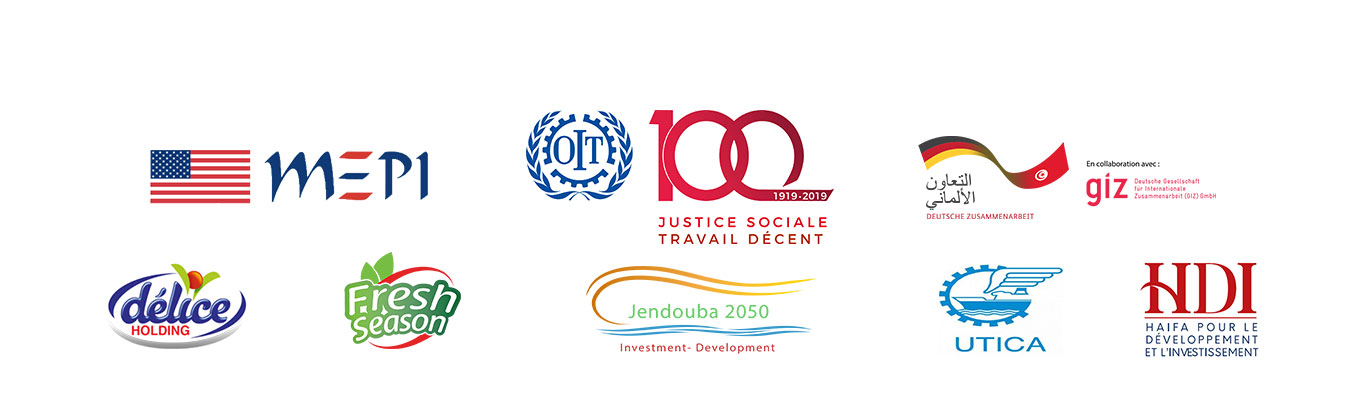
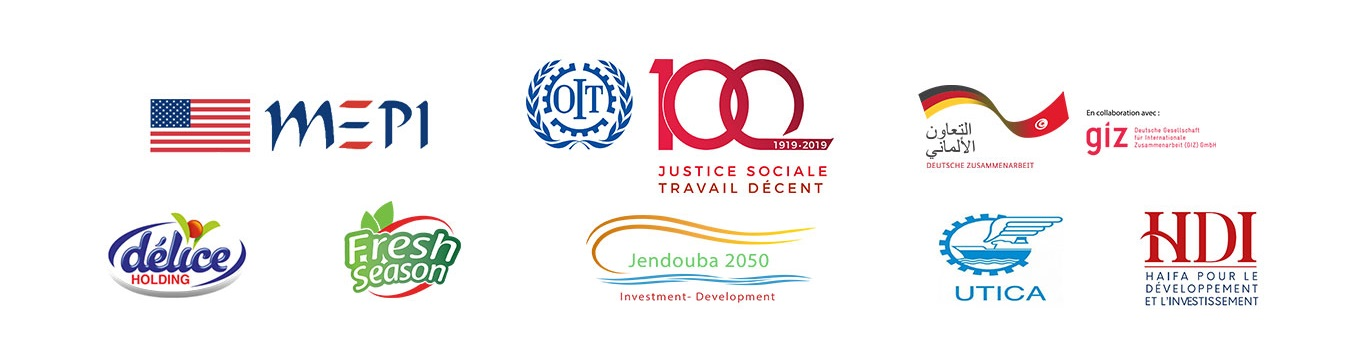
partners added

diff --git a/index.html b/index.html
@@ -313,54 +313,16 @@
                                     </div>
                               </div>
                         </div>
-                        <!--End container-->
-                        <!--Container-->
-                        <div class="container">
-                              <div class="row">
-                                    <div class="col-sm-12  col-sm-push-2 text-center">
-                                          <div class="col-md-8 col-sm-8 ">
-                                                <div class="block-sponsor">
-                                                      <img style="width: 500px;" src="img/sponsors/justiceSociale.jpg" alt=""><br><br>
-                                                </div>
-                                          </div>
-                                    </div>
-                              </div>
-                              <div class="row">
-                                    <div class="col-sm-12  text-center">
-                                                <div class="col-md-2 col-sm-2">
-                                                      </div>
-                                          <div class="col-md-2 col-sm-2">
-                                                <div >
-                                                      <img style="width: 120px;" src="img/sponsors/utica.png" alt=""><br><br>
-                                                </div>
-                                          </div>
-                                          <div class="col-md-4 col-sm-4">
-                                                      <div >
-                                                            <img style="width: 400px;" src="img/sponsors/j2050.png" alt=""><br><br>
-                                                      </div>
-                                                </div>
-                                          
-                                    <div class="col-md-2 col-sm-2">
-                                          <div >
-                                                <img style="height: 130px;" src="img/sponsors/giz.png" alt=""><br><br>
-                                          </div>
-                                    </div>
-                                    <div class="col-md-2 col-sm-2">
-                                          </div>
-                                    </div>
-                              </div>
-                              <div class="row">
-                                          <div class="col-sm-12  text-center">
-                                                                  <div >
-                                                                        <img style="height: 100px;" src="img/sponsors/mepi.png" alt=""><br><br>
-                                                                  </div>
-                                          </div>
-                        </div>
-                        <!--End container-->
+
 
                   </div>
 
             </section>
+            <section class="counter pt-150 pb-150 parallax brd-bottom">
+                        <div class="background-img">
+                              <img id="partners" src="img/sponsors/partners.jpg" alt="">
+                        </div>
+                        </section>
             <!--End about section-->
 
             <!--Speakers section-->

diff --git a/css/main.css b/css/main.css
@@ -144,10 +144,10 @@ section.single-hero {
 .background-img img {
     display: none;
 }
-.background-img {
+/* .background-img {
     width: 100%;
     height: 100%;
-}
+} */
 .background-img {
     background-attachment: scroll;
     background-clip: border-box;
@@ -157,11 +157,9 @@ section.single-hero {
     background-position: 50% 50% !important;
     background-repeat: repeat;
     background-size: cover !important;
-    height: 100%;
     left: 0;
     position: absolute;
     top: 0;
-    width: 100%;
     z-index: 0;
 }
 .overlay:before {
@@ -1389,3 +1387,35 @@ select.error {
     }
 }
 /*End media queries*/
+
+
+@media (max-width: 500px) {
+  
+    .background-img  {
+        width: 100%;
+        height: 30%;
+    }
+    
+  }
+
+
+@media (max-width: 900px) {
+    
+    .background-img img {
+        width: 100%;
+        height: 40%;
+    }
+  
+  }
+
+  @media (min-width: 1100px) {
+  
+    .background-img img {
+        width: 100%;
+        height: 100%;
+    }
+    .background-img {
+        width: 100%;
+        height: 100%;
+    }
+  }

diff --git a/css/base.css b/css/base.css
@@ -763,6 +763,10 @@ a[href^="https://maps.google.com/maps"] {
             width: 70%;
             height: 70%;
         }
+        .background-img img {
+            width: 10%;
+            height: 10%;
+        }
       }
     
 
@@ -770,5 +774,9 @@ a[href^="https://maps.google.com/maps"] {
         #logo {
             width: 50%;
             height: 50%;
+        }
+        .background-img img {
+            width: 10%;
+            height: 10%;
         }
       }
